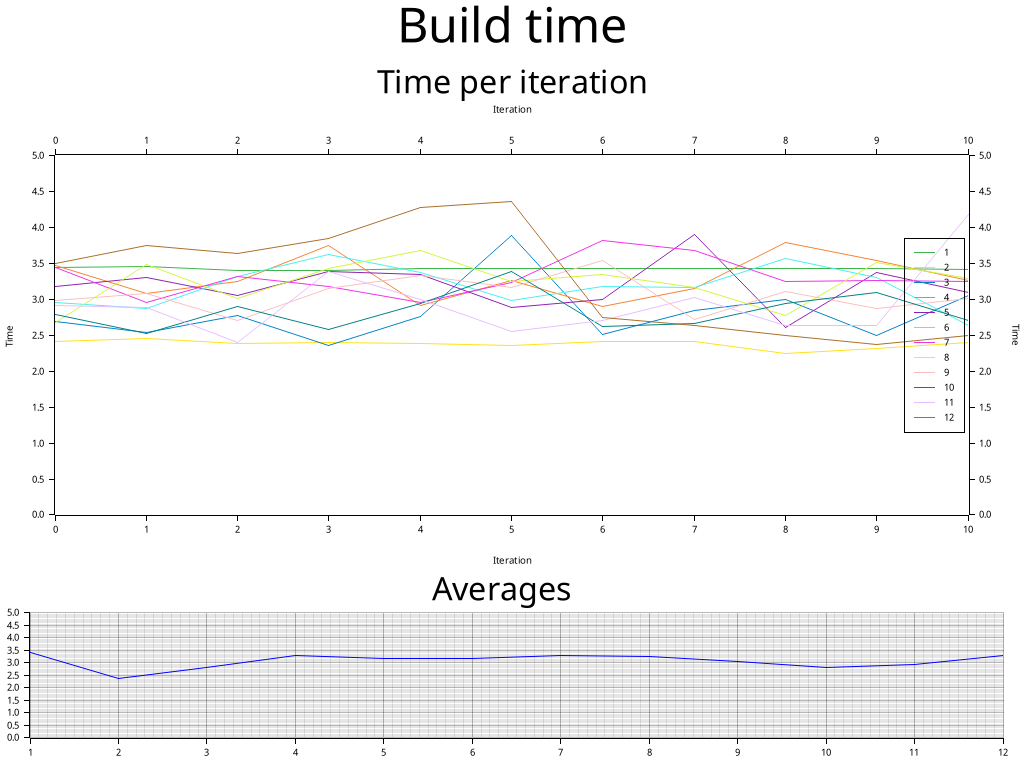
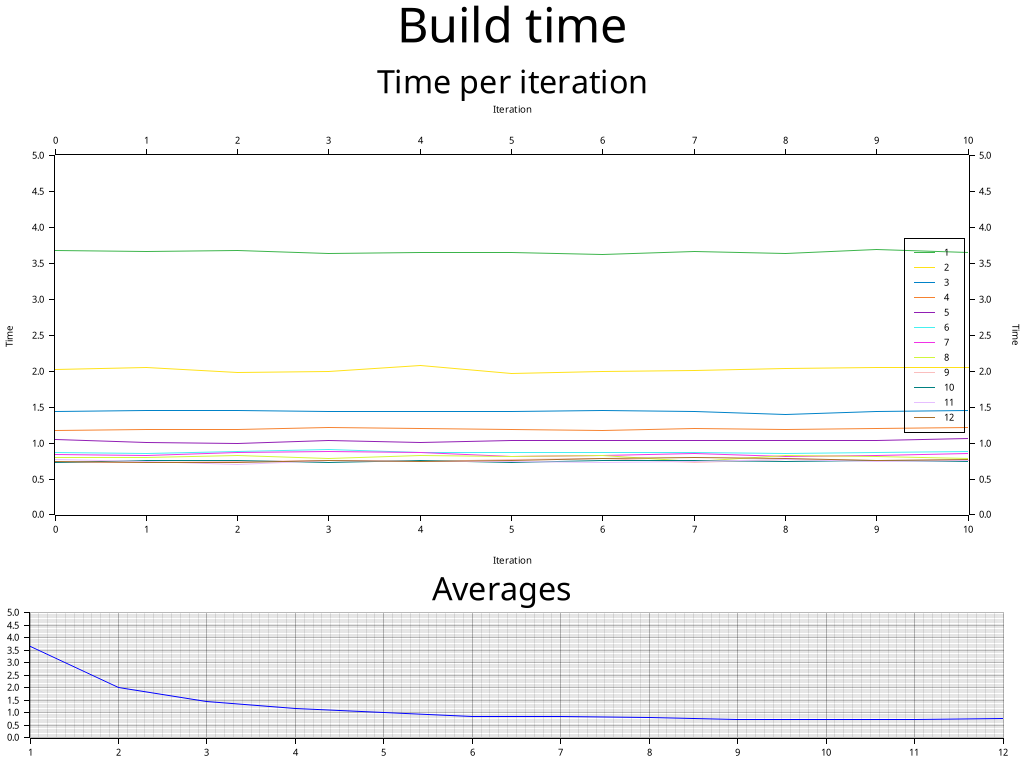
MultiFileThreadedSimpleInvertedIndex

diff --git a/src/simple_inverted_index.rs b/src/simple_inverted_index.rs
@@ -158,3 +158,122 @@ impl InvertedIndex for ThreadedSimpleInvertedIndex {
         };
     }
 }
+
+fn process_multi_file_multithreaded(
+    resources: &Mutex<HashMap<String, PostingList>>,
+    files: Vec<PathBuf>,
+    doc_id: usize,
+) {
+    let mut local_index = HashMap::<String, PostingList>::new();
+
+    for (i, file) in files.into_iter().enumerate() {
+        let words: Vec<String> = tokenize_file(&file).collect();
+
+        let local_doc_id = doc_id + i;
+
+        for word in words {
+            local_index
+                .entry(word)
+                .and_modify(|list| list.push(local_doc_id as DocID))
+                .or_insert(vec![local_doc_id as DocID]);
+        }
+    }
+
+    let index = &mut *resources.lock().unwrap();
+    for (key, mut value) in local_index.drain() {
+        index
+            .entry(key)
+            .and_modify(|list| list.append(&mut value))
+            .or_insert(value);
+    }
+}
+
+#[derive(Clone, Debug)]
+pub struct MultiFileThreadedSimpleInvertedIndex {
+    implementation: SimpleInvertedIndex,
+}
+
+impl InvertedIndex for MultiFileThreadedSimpleInvertedIndex {
+    fn new() -> Self {
+        Self {
+            implementation: SimpleInvertedIndex::new(),
+        }
+    }
+
+    fn get(&self, term: &str) -> Vec<String> {
+        self.implementation.get(term)
+    }
+
+    fn build(paths: Vec<PathBuf>, num_threads: i32) -> Self {
+        let mut docs = Vec::new();
+        let resources = Mutex::new(HashMap::new());
+
+        let pool = rayon::ThreadPoolBuilder::new()
+            .num_threads(num_threads as usize)
+            .build()
+            .unwrap();
+
+        pool.scope(|s| {
+            let mut files = vec![];
+            let mut doc_id = 0;
+            for path in paths {
+                if path.is_file() {
+                    files.push(path);
+                } else if path.is_dir() {
+                    for entry in walkdir::WalkDir::new(path)
+                        .into_iter()
+                        .filter_map(|e| e.ok())
+                    {
+                        if entry.file_type().is_file() {
+                            files.push(entry.path().to_owned());
+                        }
+
+                        if files.len() >= 3000 {
+                            let files_copy = files.clone();
+                            let doc_id_copy = doc_id.clone();
+                            let resources = &resources;
+                            s.spawn(move |_| {
+                                process_multi_file_multithreaded(
+                                    &resources,
+                                    files_copy,
+                                    doc_id_copy,
+                                );
+                            });
+                            docs.append(&mut files);
+                            doc_id += 3000;
+                        }
+                    }
+                }
+
+                if files.len() >= 3000 {
+                    let files_copy = files.clone();
+                    let doc_id_copy = doc_id.clone();
+                    let resources = &resources;
+                    s.spawn(move |_| {
+                        process_multi_file_multithreaded(&resources, files_copy, doc_id_copy);
+                    });
+                    docs.append(&mut files);
+                    doc_id += 3000;
+                }
+            }
+            if files.len() >= 1 {
+                let files_copy = files.clone();
+                let doc_id_copy = doc_id.clone();
+                let resources = &resources;
+                s.spawn(move |_| {
+                    process_multi_file_multithreaded(&resources, files_copy, doc_id_copy);
+                });
+                docs.append(&mut files);
+            }
+        });
+
+        let index = resources.into_inner().unwrap();
+        let docs = docs
+            .into_iter()
+            .map(|path| path.into_os_string().into_string().unwrap())
+            .collect();
+        return Self {
+            implementation: SimpleInvertedIndex { docs, index },
+        };
+    }
+}

diff --git a/src/bin/server.rs b/src/bin/server.rs
@@ -3,7 +3,9 @@ use std::{path::PathBuf, sync::Arc};
 use futures::future::{self, Ready};
 use inverted_index_coursework::{
     rpc::{InvertedIndexService, InvertedIndexServiceClient},
-    simple_inverted_index::{SimpleInvertedIndex, ThreadedSimpleInvertedIndex},
+    simple_inverted_index::{
+        MultiFileThreadedSimpleInvertedIndex, SimpleInvertedIndex, ThreadedSimpleInvertedIndex,
+    },
     InvertedIndex,
 };
 use tarpc::{
@@ -36,7 +38,7 @@ impl<T: InvertedIndex + std::marker::Send + std::marker::Sync + 'static> Inverte
     async fn build(self, _: context::Context, paths: Vec<String>) {
         let mut inverted_index = self.inverted_index_lock.write().await;
         *inverted_index =
-            InvertedIndex::build(paths.into_iter().map(|s| PathBuf::from(s)).collect(), 1);
+            InvertedIndex::build(paths.into_iter().map(|s| PathBuf::from(s)).collect(), 12);
     }
 }
 
@@ -44,7 +46,7 @@ impl<T: InvertedIndex + std::marker::Send + std::marker::Sync + 'static> Inverte
 async fn main() -> anyhow::Result<()> {
     let (client_transport, server_transport) = tarpc::transport::channel::unbounded();
 
-    let server_data = Server::<ThreadedSimpleInvertedIndex>::new();
+    let server_data = Server::<MultiFileThreadedSimpleInvertedIndex>::new();
 
     let server = server::BaseChannel::with_defaults(server_transport);
     tokio::spawn(server.execute(server_data.serve()));

diff --git a/src/bin/plot_build_time.rs b/src/bin/plot_build_time.rs
@@ -1,7 +1,9 @@
 use std::{path::PathBuf, time::Instant};
 
 use inverted_index_coursework::{
-    simple_inverted_index::{SimpleInvertedIndex, ThreadedSimpleInvertedIndex},
+    simple_inverted_index::{
+        MultiFileThreadedSimpleInvertedIndex, SimpleInvertedIndex, ThreadedSimpleInvertedIndex,
+    },
     InvertedIndex,
 };
 use plotters::prelude::*;
@@ -12,7 +14,7 @@ const ITERATIONS: i32 = 10;
 
 fn benchmark_build(num_threads: i32) -> f32 {
     let start = Instant::now();
-    let _ = ThreadedSimpleInvertedIndex::build(
+    let _ = MultiFileThreadedSimpleInvertedIndex::build(
         FILES.into_iter().map(|s| PathBuf::from(s)).collect(),
         num_threads,
     );
